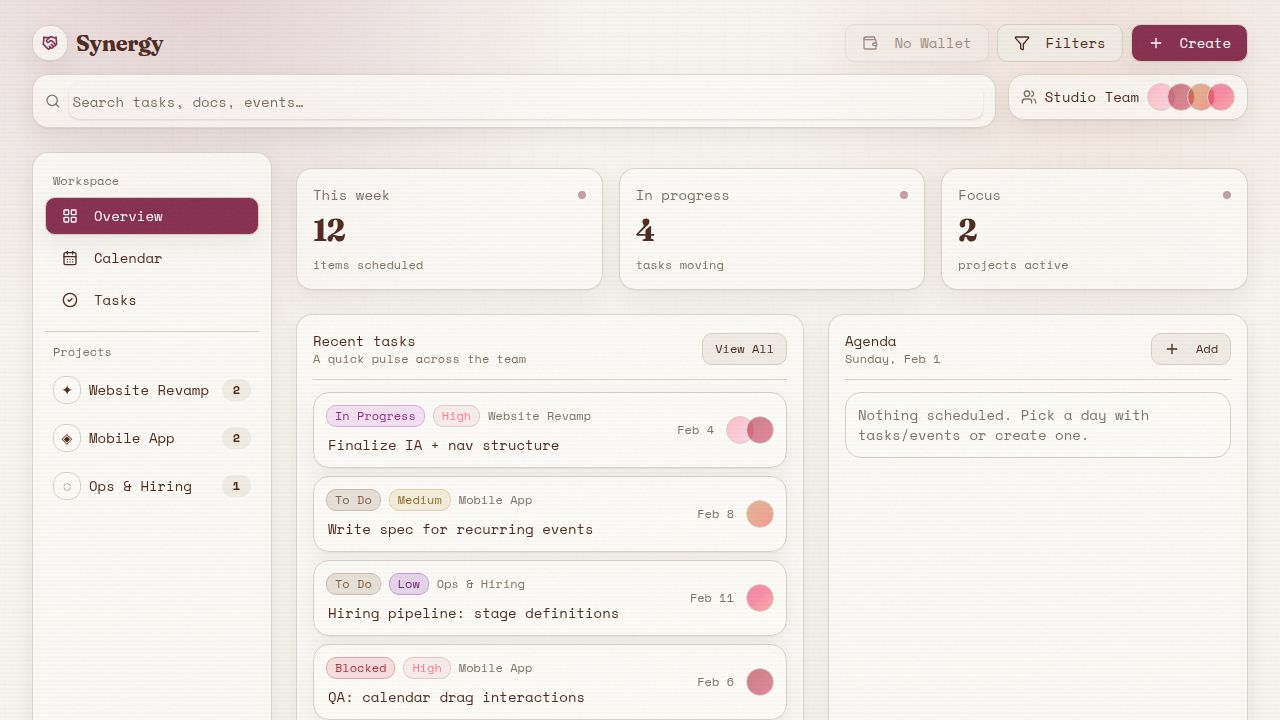
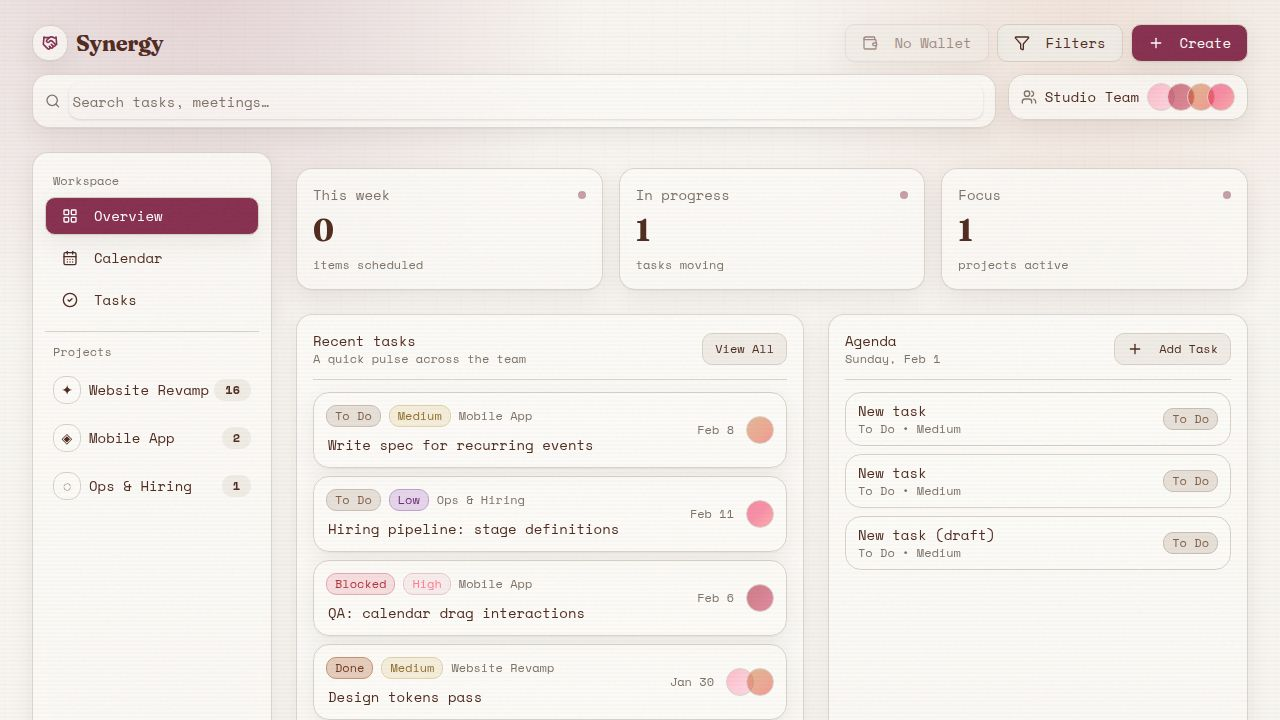
Make projects optional for tasks and update related logic
Update task creation logic and schema to allow tasks to be created without a project assignment, including changes to `tasks.projectId` constraint and filtering mechanisms in `workspace.tsx`.

Replit-Commit-Author: Agent
Replit-Commit-Session-Id: 61975ac7-844b-433d-af3d-9a5aaae18c45
Replit-Commit-Checkpoint-Type: full_checkpoint
Replit-Commit-Event-Id: 71a78f1a-c868-46db-a329-9bf401a61826
Replit-Commit-Screenshot-Url: https://storage.googleapis.com/screenshot-production-us-central1/8f661687-265d-46da-953b-417522a557ad/61975ac7-844b-433d-af3d-9a5aaae18c45/kqkDFrb
Replit-Helium-Checkpoint-Created: true

diff --git a/client/src/pages/workspace.tsx b/client/src/pages/workspace.tsx
@@ -267,7 +267,9 @@ function LeftRail({
   const taskCountByProject = useMemo(() => {
     const counts = new Map<string, number>();
     tasks.forEach((t) => {
-      counts.set(t.projectId, (counts.get(t.projectId) || 0) + 1);
+      if (t.projectId) {
+        counts.set(t.projectId, (counts.get(t.projectId) || 0) + 1);
+      }
     });
     return counts;
   }, [tasks]);
@@ -805,7 +807,7 @@ export default function WorkspacePage() {
       result = inProgressTasks;
     } else if (metricFilter === "focus") {
       const activeProjectIds = new Set(activeProjects.map((p) => p.id));
-      result = result.filter((t) => activeProjectIds.has(t.projectId));
+      result = result.filter((t) => t.projectId && activeProjectIds.has(t.projectId));
     }
     
     if (selectedProject) {
@@ -825,12 +827,10 @@ export default function WorkspacePage() {
   }, [query, tasks, projects, selectedProject, metricFilter, thisWeekTasks, inProgressTasks, activeProjects]);
 
   function onCreate() {
-    if (projects.length === 0) return;
-    
     createTaskMutation.mutate({
       title: "",
       status: "todo",
-      projectId: projects[0].id,
+      projectId: null,
       assigneeIds: [],
       due: null,
       priority: "Medium",
@@ -848,12 +848,10 @@ export default function WorkspacePage() {
   }
 
   function addQuickTask() {
-    if (projects.length === 0) return;
-    
     createTaskMutation.mutate({
       title: "",
       status: "todo",
-      projectId: projects[0].id,
+      projectId: null,
       assigneeIds: [],
       due: null,
       priority: "Medium",
@@ -1104,7 +1102,7 @@ export default function WorkspacePage() {
               <div className="space-y-2">
                 <Label>Project</Label>
                 <Select
-                  value={selectedTask.projectId}
+                  value={selectedTask.projectId ?? undefined}
                   onValueChange={(v) => setSelectedTask({ ...selectedTask, projectId: v })}
                 >
                   <SelectTrigger data-testid="select-task-project">

diff --git a/shared/schema.ts b/shared/schema.ts
@@ -29,7 +29,7 @@ export const tasks = pgTable("tasks", {
   id: varchar("id").primaryKey().default(sql`gen_random_uuid()`),
   title: text("title").notNull(),
   status: text("status").notNull().default("todo"),
-  projectId: varchar("project_id").notNull().references(() => projects.id, { onDelete: "cascade" }),
+  projectId: varchar("project_id").references(() => projects.id, { onDelete: "set null" }),
   assigneeIds: text("assignee_ids").array().notNull().default(sql`'{}'::text[]`),
   due: timestamp("due"),
   priority: text("priority").notNull().default("Medium"),
